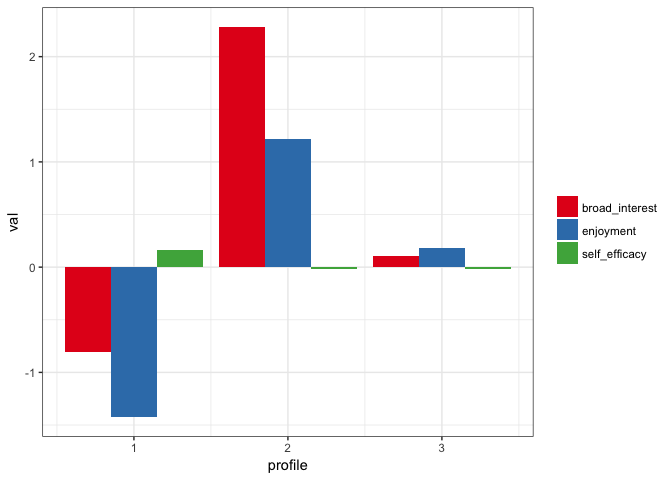
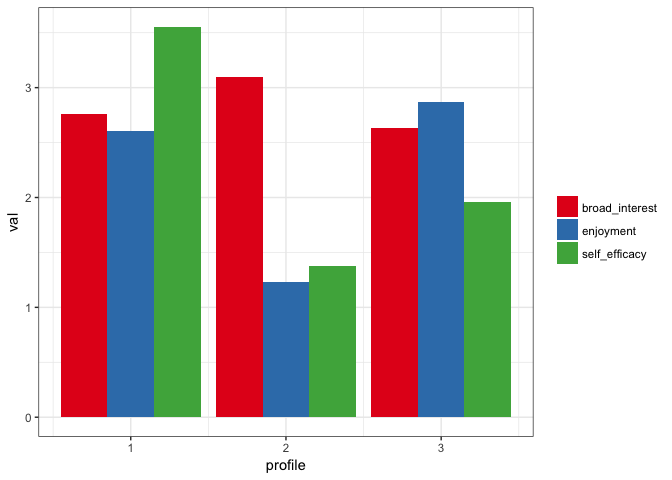
update docs

diff --git a/README.md b/README.md
@@ -29,36 +29,15 @@ library(tidyLPA)
 ```
 
 ``` r
-library(dplyr)
-#> 
-#> Attaching package: 'dplyr'
-#> The following objects are masked from 'package:stats':
-#> 
-#>     filter, lag
-#> The following objects are masked from 'package:base':
-#> 
-#>     intersect, setdiff, setequal, union
-d <- pisaUSA15
-d <- sample_frac(d, .5)
+library(dplyr, warn.conflicts = FALSE)
+d <- sample_n(pisaUSA15, 200)
 m3 <- create_profiles_lpa(d, broad_interest, enjoyment, self_efficacy, n_profiles = 3, model = 2)
-#> Model with 3 profiles using the 'varying means, equal variances and covariances' model.
-#> AIC is 16106.59
-#> BIC is 16206.787
-#> ICL is 16698.022
-#> Entropy is 0.92087
-m3
-#> # A tibble: 2,681 x 5
-#>    broad_interest enjoyment self_efficacy profile posterior_prob
-#>             <dbl>     <dbl>         <dbl>   <dbl>          <dbl>
-#>  1            2.2       2.8         1.500       2        0.98343
-#>  2            2.6       2.4         2.375       2        0.99106
-#>  3            2.8       2.8         2.500       2        0.99162
-#>  4            2.2       2.8         1.000       2        0.98168
-#>  5            2.4       3.6         2.875       3        0.75493
-#>  6            1.8       2.5         2.000       2        0.99541
-#>  7            3.2       3.0         2.000       2        0.97364
-#>  8            1.4       2.2         2.750       2        0.98097
-#>  9            3.2       3.0         1.000       2        0.96800
-#> 10            3.4       3.2         2.125       2        0.91580
-#> # ... with 2,671 more rows
+#> Fit varying means, equal variances and covariances (Model 2) model with 3 profiles.
+#> AIC is 1143.054
+#> BIC is 1198.074
+#> ICL is 1213.502
+#> Entropy is 0.96503
+plot_profiles_lpa(m3)
 ```
+
+![](README-unnamed-chunk-3-1.png)
